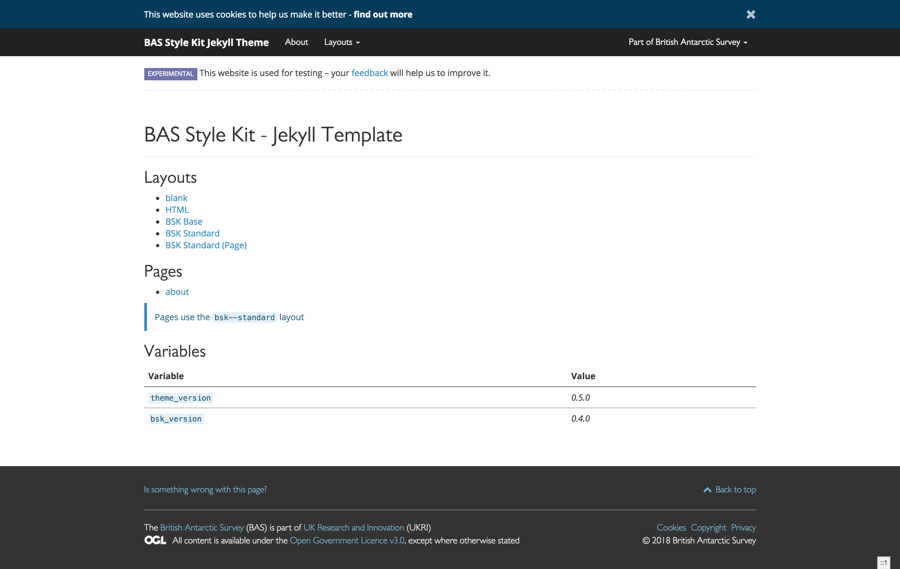
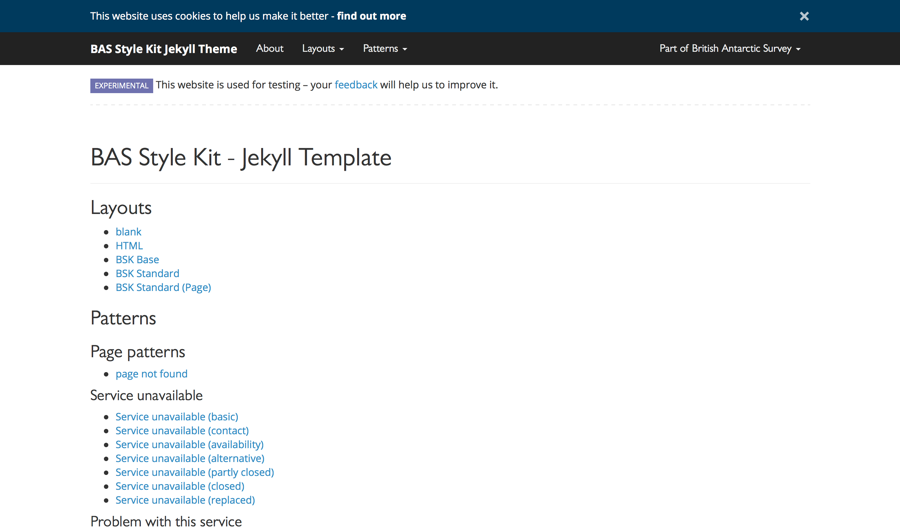
Preparing for release

Changed region(s): [[0.0, 0.2121, 1.0, 1.0], [0.0, 0.0, 1.0, 0.1818]]

diff --git a/CHANGELOG.md b/CHANGELOG.md
@@ -5,6 +5,8 @@ This project adheres to [Semantic Versioning](http://semver.org/spec/v2.0.0.html
 
 ## [Unreleased][unreleased]
 
+## 0.7.0 - 2018-11-24
+
 ### Added
 
 * 'Problem with this service' (basic) page pattern variant
